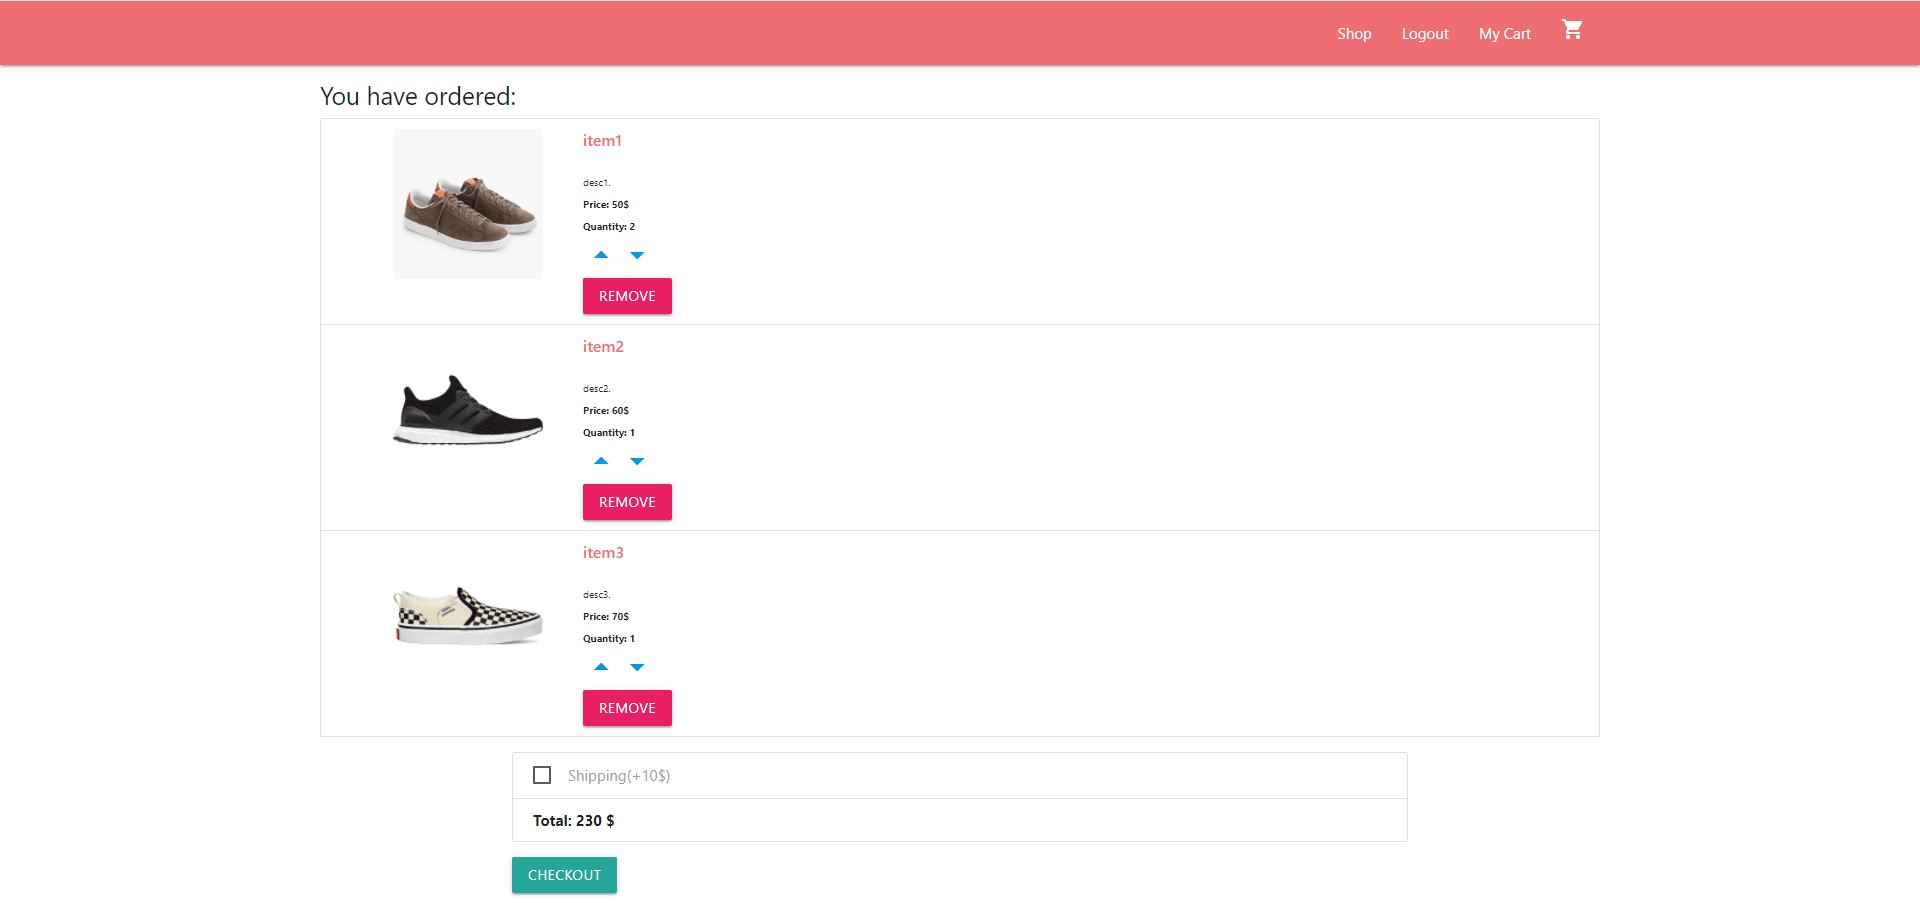
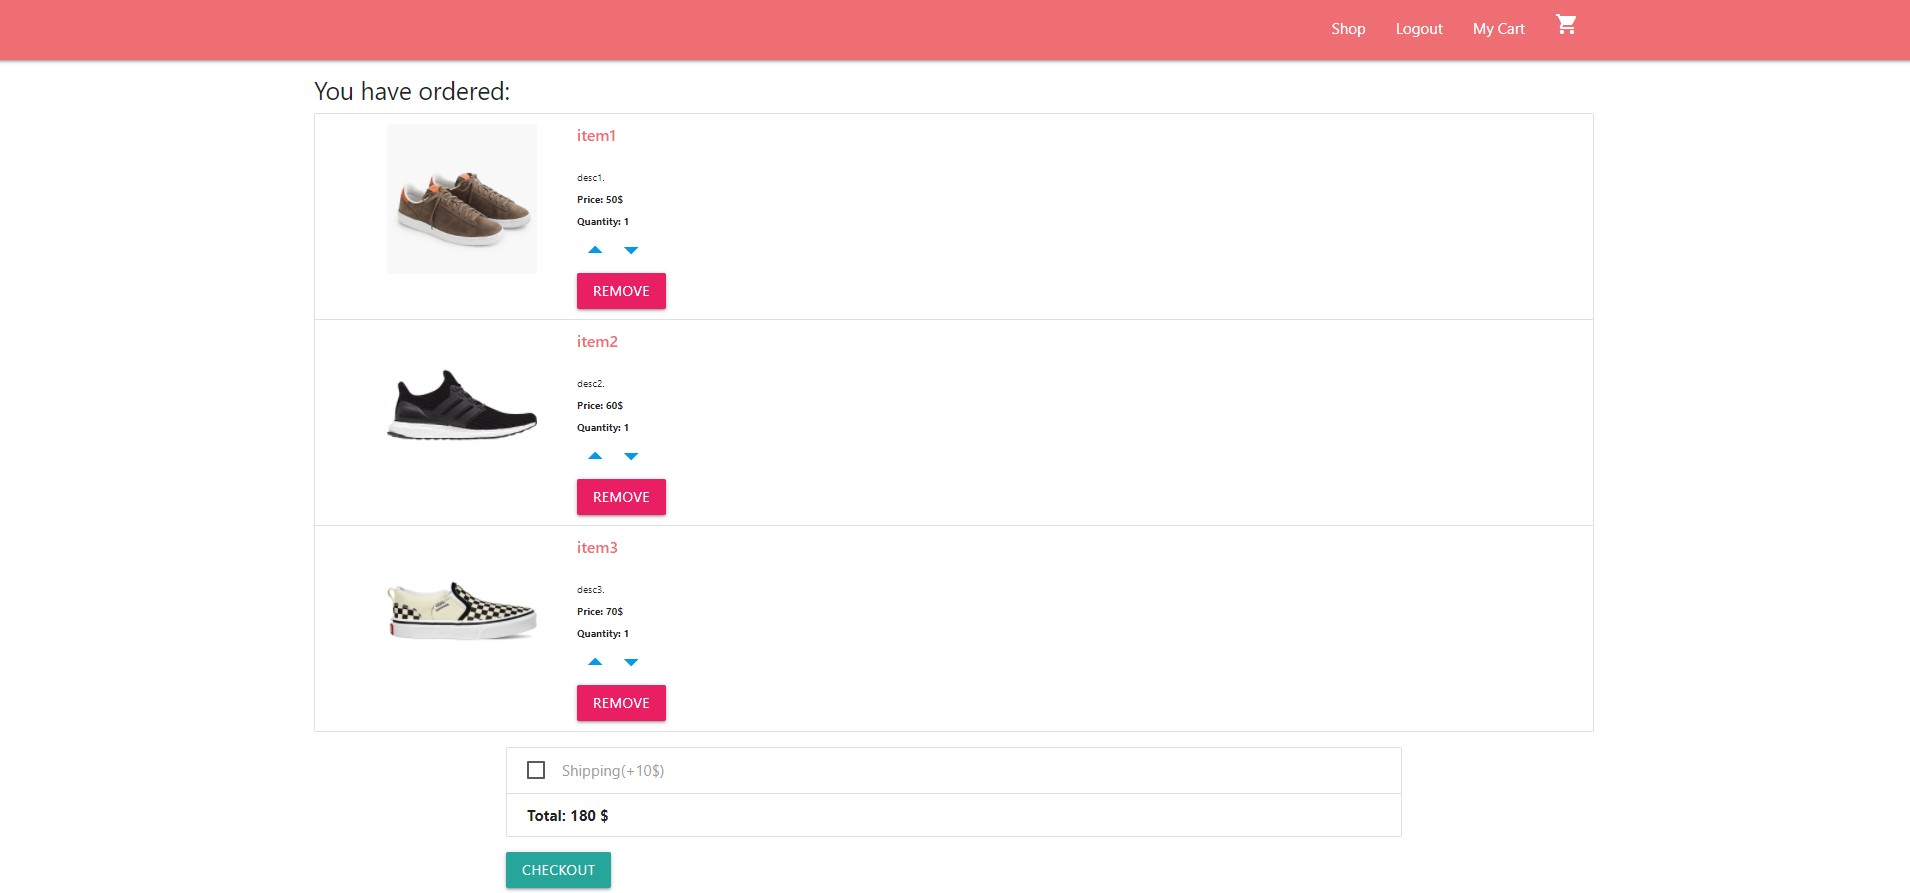
ver19sep2020

diff --git a/backend/routes/user.js b/backend/routes/user.js
@@ -1,5 +1,4 @@
 const express = require("express");
-//FIXME:
 const { check, validationResult } = require("express-validator");
 const bcrypt = require("bcryptjs");
 const jwt = require("jsonwebtoken");
@@ -31,7 +30,6 @@ router.post(
     }
 
     const { username, password } = req.body;
-    //FIXME:
     var { email } = req.body;
     try {
       let user = await User.findOne({
@@ -42,7 +40,6 @@ router.post(
           msg: "User Already Exists",
         });
       }
-      //FIXME:
       email = email.toLowerCase();
 
       user = new User({
@@ -185,7 +182,7 @@ router.post("/additem", async (req, res) => {
       {
         email: req.body.email,
         "order.id": req.body.item.id,
-        "order.quantity": { $gt: 0 },
+        // "order.quantity": { $gt: 0 },
       },
       {
         $inc: {
@@ -215,15 +212,11 @@ router.post("/removeitem", async (req, res) => {
       $pull: {
         order: { id: req.body.item.id },
       },
-    },
-    function (err, data) {
-      if (err) {
-        throw err;
-      } else {
-        res.json({ id: req.body.item.id, order: data });
-      }
     }
   );
+
+  const arr = await User.findOne({ email: req.body.email });
+  res.json({ sum: arr.calsum(), id: req.body.item.id, order: arr });
 });
 
 //add quantity
@@ -234,26 +227,22 @@ router.post("/addquantity", async (req, res) => {
   );
 
   if (findtarget) {
-    User.updateOne(
+    User.findOneAndUpdate(
       {
         email: req.body.email,
-        "order.id": req.body.item.id,
-        "order.quantity": { $gt: 0 },
+        "order.title": findtarget.title,
       },
       {
         $inc: {
           "order.$.quantity": 1,
         },
       },
-      function () {
-        User.findOne({ email: req.body.email }).exec(function (error, use) {
-          if (error) {
-            throw error;
-          } else {
-            console.log("sum", use.calsum());
-            res.json({ sum: use.calsum(), id: req.body.item.id, order: use });
-          }
-        });
+      { new: true },
+      function (err, arr) {
+        if (err) {
+          throw err;
+        }
+        res.json({ sum: arr.calsum(), id: req.body.item.id, order: arr });
       }
     );
   }
@@ -267,87 +256,85 @@ router.post("/subquantity", async (req, res) => {
   );
 
   if (findtarget) {
-    User.updateOne(
+    User.findOneAndUpdate(
       {
         email: req.body.email,
         "order.id": req.body.item.id,
-        "order.quantity": { $gt: 0 },
       },
       {
         $inc: {
           "order.$.quantity": -1,
         },
       },
-      function (err, data) {
+      { new: true },
+      function (err, arr) {
         if (err) {
           throw err;
-        } else {
-          User.findOne(
-            {
-              email: req.body.email,
-              "order.id": req.body.item.id,
-              "order.quantity": { $eq: 0 },
-            },
-            {
-              $pull: {
-                order: { id: req.body.item.id },
-              },
-            }
-          );
-
-          res.json({ id: req.body.item.id, order: data });
         }
+        User.findOneAndUpdate(
+          { email: req.body.email, "order.quantity": 0 },
+          {
+            $pull: {
+              order: { id: req.body.item.id },
+            },
+          },
+          { new: true },
+          function (err, findzero) {
+            if (err) {
+              throw err;
+            }
+            // console.log("111111111111111111111111111111111111111", findzero);
+
+            if (findzero !== null)
+              res.json({
+                sum: findzero.calsum(),
+                id: req.body.item.id,
+                order: findzero,
+              });
+            else {
+              res.json({ sum: arr.calsum(), id: req.body.item.id, order: arr });
+            }
+          }
+        );
       }
     );
   }
 });
 
-router.post("/addshipment", async (req, res) => {
-  User.findOne(
+//FIXME:
+router.post("/addshipment",  (req, res) => {
+   User.findOneAndUpdate(
     {
       email: req.body.email,
     },
-    function (err, doc) {
-      if (err) {
-        throw err;
+    { $set: { shipment: true } },
+    { new: true },
+    function (error, use) {
+      if (error) {
+        throw error;
       } else {
-        doc.shipment = true;
-        doc.save();
+        res.json({ sum: use.calsum() + 10, order: use });
       }
     }
   );
-
-  await User.findOne({ email: req.body.email }).exec(function (error, use) {
-    if (error) {
-      throw error;
-    } else {
-      res.json({ sum: use.calsum() + 10, id: req.body.item.id, order: use });
-    }
-  });
 });
 
-router.post("/subshipment", async (req, res) => {
-  User.findOne(
+//FIXME:
+router.post("/subshipment",  (req, res) => {
+   User.findOneAndUpdate(
     {
       email: req.body.email,
     },
-    function (err, doc) {
-      if (err) {
-        throw err;
+    { $set: { shipment: false } },
+    { new: true },
+    function (error, use) {
+      if (error) {
+        throw error;
       } else {
-        doc.shipment = false;
-        doc.save();
+        res.json({ sum: use.calsum() , order: use });
       }
     }
   );
-
-  await User.findOne({ email: req.body.email }).exec(function (error, use) {
-    if (error) {
-      throw error;
-    } else {
-      res.json({ sum: use.calsum() - 10, id: req.body.item.id, order: use });
-    }
-  });
 });
 
 // router.post("/toggleitem", async (req, res) => {
@@ -355,12 +342,12 @@ router.post("/subshipment", async (req, res) => {
 //     {
 //       email: req.body.email,
 //     },
-//     function (err, doc) {
+//     function (err, use) {
 //       if (err) {
 //         throw err;
 //       } else {
-//         doc.shipment = !doc.shipment;
-//         doc.save();
+//         use.shipment = !use.shipment;
+//         use.save();
 //       }
 //     }
 //   );

diff --git a/src/components/thunk/cart-thunk.js b/src/components/thunk/cart-thunk.js
@@ -119,15 +119,14 @@ export const sub_quantity = (payload) => {
 //ADD_SHIPMENT
 export const add_shipment = (payload) => {
   return (dispatch, getState) => {
-    console.log("payload", payload);
+    console.log("payload****************************", payload);
     // const userinfo = JSON.parse(localStorage.getItem("user"));
     // const token = userinfo.token;
     axios
       .post(
         "http://localhost:4000/user/addshipment",
         {
-          item: payload.item,
-          email: payload.useremail,
+          email: payload,
         },
         {
           headers: {
@@ -138,7 +137,7 @@ export const add_shipment = (payload) => {
       )
       .then((res) => {
         console.log("add_shipment", res.data);
-        dispatch(addShipping());
+        dispatch(addShipping(res.data));
       });
   };
 };
@@ -146,15 +145,14 @@ export const add_shipment = (payload) => {
 //SUB_SHIPMENT
 export const sub_shipment = (payload) => {
   return (dispatch, getState) => {
-    console.log("payload", payload);
+    console.log("payload**************", payload);
     // const userinfo = JSON.parse(localStorage.getItem("user"));
     // const token = userinfo.token;
     axios
       .post(
         "http://localhost:4000/user/subshipment",
         {
-          item: payload.item,
-          email: payload.useremail,
+          email: payload,
         },
         {
           headers: {

diff --git a/src/components/Recipe.js b/src/components/Recipe.js
@@ -1,16 +1,20 @@
 import React, { Component } from "react";
 import { connect } from "react-redux";
+import { add_shipment, sub_shipment } from "../components/thunk/cart-thunk";
 
 class Recipe extends Component {
   componentWillUnmount() {
-    if (this.refs.shipping.checked) this.props.substractShipping();
+    if (this.refs.shipping.checked) this.props.sub_shipment();
   }
 
   handleChecked = (e) => {
+    const userinfo = JSON.parse(localStorage.getItem("user"));
+    const useremail = userinfo.useremail;
+
     if (e.target.checked) {
-      this.props.addShipping();
+      this.props.add_shipment(useremail);
     } else {
-      this.props.substractShipping();
+      this.props.sub_shipment(useremail);
     }
   };
 
@@ -49,11 +53,11 @@ const mapStateToProps = (state) => {
 
 const mapDispatchToProps = (dispatch) => {
   return {
-    addShipping: () => {
-      dispatch({ type: "ADD_SHIPPING" });
+    add_shipment: (payload) => {
+      dispatch(add_shipment(payload));
     },
-    substractShipping: () => {
-      dispatch({ type: "SUB_SHIPPING" });
+    sub_shipment: (payload) => {
+      dispatch(sub_shipment(payload));
     },
   };
 };

diff --git a/backend/model/User.js b/backend/model/User.js
@@ -24,7 +24,7 @@ const UserSchema = mongoose.Schema({
         title: String,
         desc: String,
         price: Number,
-        quantity: { type: Number, default: 1, min: 0 },
+        quantity: { type: Number, default: 1 },
         img: String,
       },
     ],
@@ -34,10 +34,15 @@ const UserSchema = mongoose.Schema({
 });
 
 UserSchema.methods.calsum = function () {
-  const amountarr = this.order.map((item) => item.price * item.quantity);
-  console.log("amountarr", amountarr);
-  const totalamount = amountarr.reduce((total, cur) => total + cur);
-  return totalamount;
+  if (this.order.length === 0) {
+    return 0;
+  } else {
+    const amountarr = this.order.map((item) => item.price * item.quantity);
+    console.log("amountarr", amountarr);
+    const reducer = (total, cur) => total + cur;
+    const totalamount = amountarr.reduce(reducer, 0);
+    return totalamount;
+  }
 };
 
 // export model user with UserSchema

diff --git a/src/components/Cart.js b/src/components/Cart.js
@@ -52,6 +52,7 @@ const Cart = (props) => {
   };
   //Add the quantity
   const handleAddQuantity = (item) => {
+    console.log("item-------------", item);
     const userinfo = JSON.parse(localStorage.getItem("user"));
     const useremail = userinfo.useremail;
     const payload = {
@@ -72,7 +73,7 @@ const Cart = (props) => {
   };
 
   let addedItems =
-    props.items && user ? (
+    props.items.length > 0 && user ? (
       props.items.map((item) => {
         return (
           <li className="collection-item avatar" key={item.id}>
